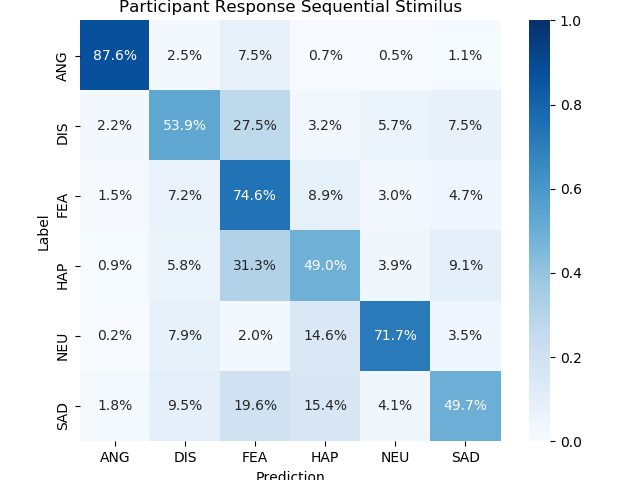
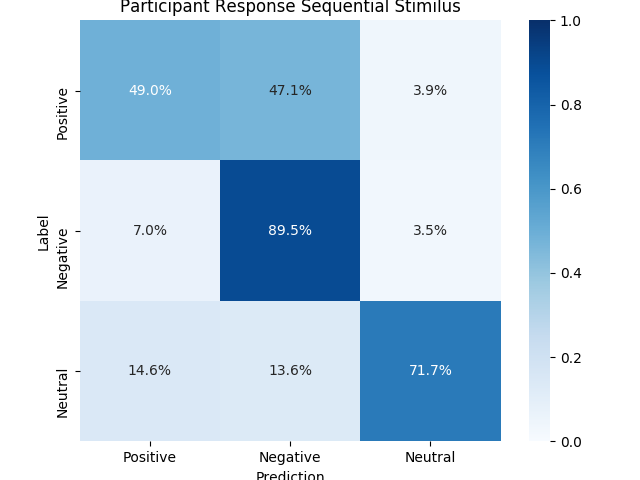
Made simplified confusion matrix for testers

diff --git a/confusion.py b/confusion.py
@@ -46,7 +46,8 @@ def plotModelMatrix(y_true,y_pred, name, tester,type, title):
     print('accuracy of SAD:{0}'.format(acc6))
     print('accuracy:{0}'.format(acc))
     '''
-
+    acc = accuracy_score(y_true, y_pred)
+    print('accuracy:{0}'.format(acc))
     cm = confusion_matrix(y_true, y_pred, labels=labels)
     cm = cm.astype('float') / cm.sum(axis=1)[:, np.newaxis]
     cm_sum = np.sum(cm, axis=1, keepdims=True)
@@ -75,7 +76,7 @@ def plotModelMatrix(y_true,y_pred, name, tester,type, title):
     sns.heatmap(cm, cmap=plt.cm.Blues ,square=True ,annot=annot, fmt='', ax=ax, vmin=0, vmax=1)
     plt.title(title)  #If you need to be able to change the name of the martix here
     plt.savefig(r'ConfusionMatrices'+type+'/'+name+str(tester)+'ResponseConfusionMatrix.png')  #Here you can choose where to save and only save the image of the matrix
-    #plt.show()
+    plt.show()
 
 def plotMatrix(y_true,y_pred, name, tester,type, title):
     #print(y_true, y_pred)
@@ -133,7 +134,7 @@ def plotMatrix(y_true,y_pred, name, tester,type, title):
 
     
 
-def main():
+if __name__ == "__main__":
     y_true = []
     y_pred = [] 
     '''
@@ -180,11 +181,21 @@ def main():
         clines = cfile.readlines()
         rlines = rfile.readlines()
         for line in clines:
-            s = line[:1]                                   
-            y_true.append(s)
+            s = line[:1]
+            if s in ["1","2","3","6"]:
+                y_true.append("2")
+            elif s == "4":
+                y_true.append("1")
+            else:
+                y_true.append("3")
         for line in rlines:
             s = line[:1]
-            y_pred.append(s)
+            if s in ["1","2","3","6"]:
+                y_pred.append("2")
+            elif s == "4":
+                y_pred.append("1")
+            else:
+                y_pred.append("3")
 
     for i in range(1,13):
         cfile = open("ResponseDataSequential/CorrectResponse.txt","r")
@@ -192,13 +203,23 @@ def main():
         clines = cfile.readlines()
         rlines = rfile.readlines()
         for line in clines:
-            s = line[:1]                                   
-            y_true.append(s)
+            s = line[:1]
+            if s in ["1", "2", "3", "6"]:
+                y_true.append("2")
+            elif s == "4":
+                y_true.append("1")
+            else:
+                y_true.append("3")
         for line in rlines:
             s = line[:1]
-            y_pred.append(s)
+            if s in ["1", "2", "3", "6"]:
+                y_pred.append("2")
+            elif s == "4":
+                y_pred.append("1")
+            else:
+                y_pred.append("3")
 
-    plotMatrix(y_true,y_pred,"","All","Sequential", "Participant Response Random Stimilus")
+    plotModelMatrix(y_true,y_pred,"","All","Sequential", "Participant Response Random Stimilus")
 
     #Sequential
     '''
@@ -243,11 +264,21 @@ def main():
         clines = cfile.readlines()
         rlines = rfile.readlines()
         for line in clines:
-            s = line[:1]                                   
-            y_true.append(s)
+            s = line[:1]
+            if s in ["1", "2", "3", "6"]:
+                y_true.append("2")
+            elif s == "4":
+                y_true.append("1")
+            else:
+                y_true.append("3")
         for line in rlines:
             s = line[:1]
-            y_pred.append(s)
+            if s in ["1", "2", "3", "6"]:
+                y_pred.append("2")
+            elif s == "4":
+                y_pred.append("1")
+            else:
+                y_pred.append("3")
 
     for i in range(1,13):
         cfile = open("ResponseDataRandom/CorrectResponse.txt","r")
@@ -255,14 +286,24 @@ def main():
         clines = cfile.readlines()
         rlines = rfile.readlines()
         for line in clines:
-            s = line[:1]                                   
-            y_true.append(s)
+            s = line[:1]
+            if s in ["1", "2", "3", "6"]:
+                y_true.append("2")
+            elif s == "4":
+                y_true.append("1")
+            else:
+                y_true.append("3")
         for line in rlines:
             s = line[:1]
-            y_pred.append(s)
+            if s in ["1", "2", "3", "6"]:
+                y_pred.append("2")
+            elif s == "4":
+                y_pred.append("1")
+            else:
+                y_pred.append("3")
 
-    plotMatrix(y_true,y_pred,"","All","Random","Participant Response Sequential Stimilus")
-
+    plotModelMatrix(y_true,y_pred,"","All","Random","Participant Response Sequential Stimilus")
+    '''
     #Make the model matrices
     temp = makeModelData("RandomCorrect.csv","RandomPred.csv")
     plotModelMatrix(temp[0],temp[1],"","ModelRan","Random","Model Classification Random Stimilus")
@@ -277,8 +318,5 @@ def main():
     #Make the model matrices
     temp = makeModelData("SequentialCorrect.csv","SequentialPred.csv")
     plotModelMatrix(temp[0],temp[1],"","ModelSeq","Sequential","Model Classification Sequential Stimilus")
+    '''
     print('finished')
-
-
-    
-main()
